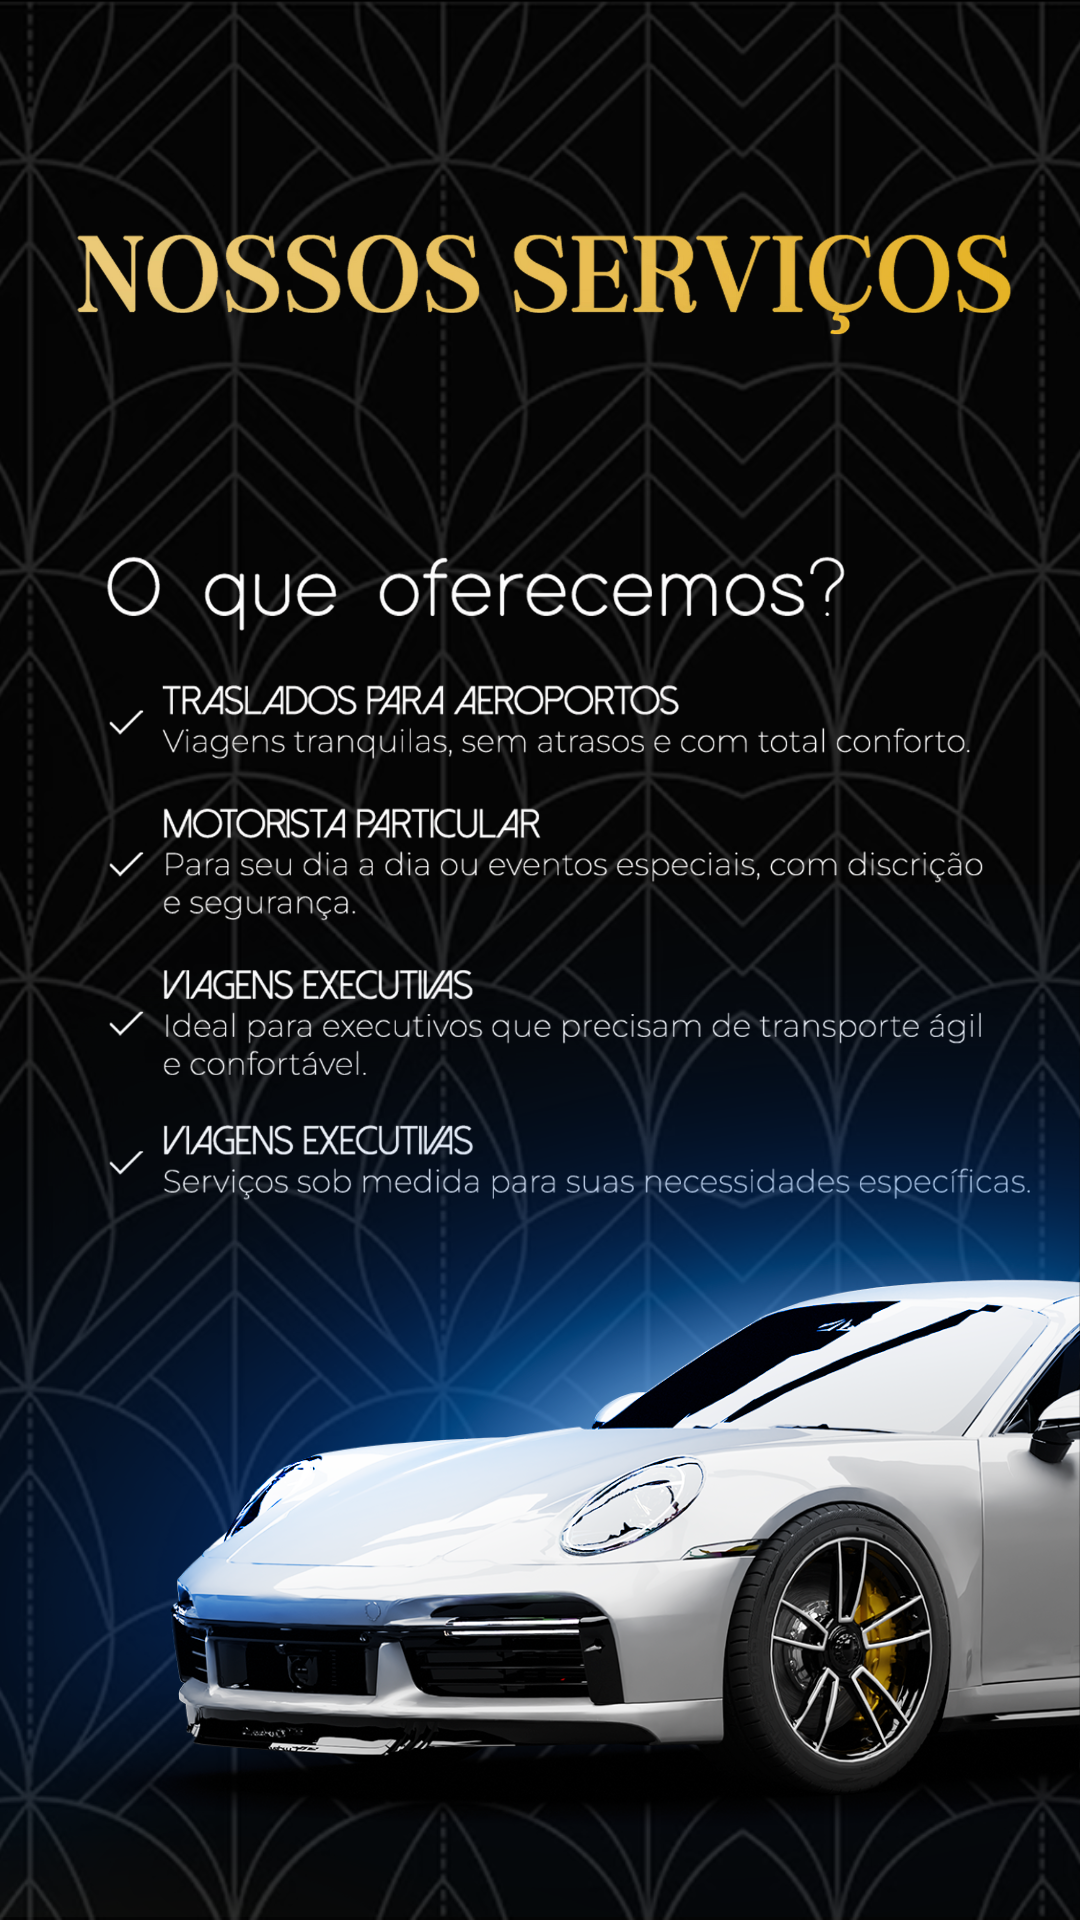
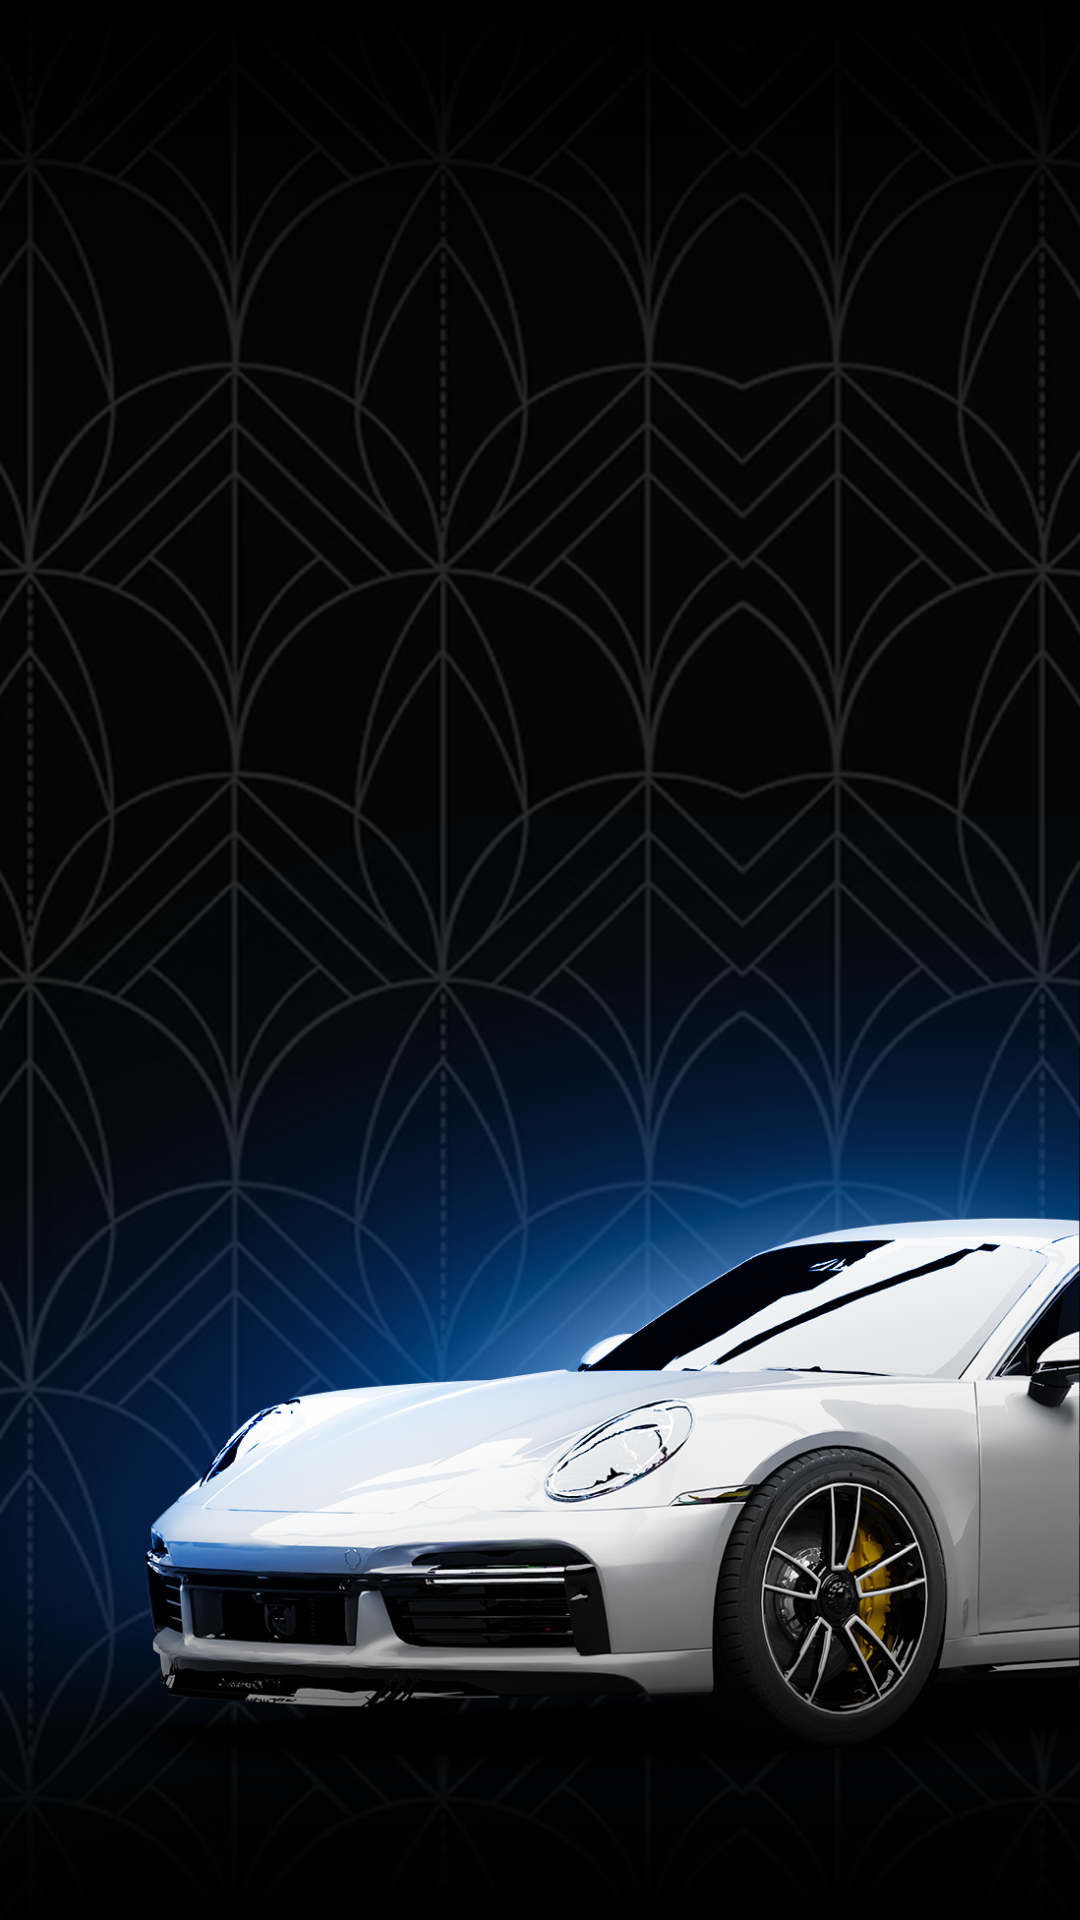
update
update

diff --git a/style.css b/style.css
@@ -3,6 +3,13 @@
     margin: 0;
     box-sizing: border-box;
 }
+a {
+    cursor: pointer;
+
+}
+button {
+    cursor: pointer;
+}
 #Section01 {
     height: 100vh;
     width: 100%;
@@ -94,7 +101,7 @@
     width: 100%;
     height: 100vh;height: 100vh;
     width: 100%;
-    background-image: url(./BG/bg_02.webp);
+    background-image: url(./BG/bg_02.png);
     background-position: center center;
     background-repeat: no-repeat;
     background-size: cover;
@@ -132,7 +139,7 @@
         width: 100%;
         height: 100vh;height: 100vh;
         width: 100%;
-        background-image: url(./BG/06.webp);
+        background-image: url(./BG/06.png);
         background-position: center center;
         background-repeat: no-repeat;
         background-size: cover;
@@ -170,10 +177,22 @@
 #Section3 {
     width: 100%;
     height: 100vh;
-    background-image: url(./BG/03.png);
+    background-image: url(./BG/bg_03.png);
     background-position: center center;
     background-repeat: no-repeat;
     background-size: cover;
+}
+#Servicos {
+    width: 50%;
+    margin-left: 10%;
+    padding-top: 40px;
+}
+#Servicos #logoServico{
+    width: 80%;
+    margin-bottom: 50px;
+}
+#Servicos #txtservicos {
+    width: 80%;
 }
 @media (max-width: 800px){
     #Section3{
@@ -184,16 +203,49 @@
         background-repeat: no-repeat;
         background-size: cover;
     }
+    #Servicos {
+        text-align: center;
+        width: 90%;
+        margin-left: 5%;
+        padding-top: 150px;
+    }
+    #Servicos #logoServico{
+        width: 80%;
+        margin-bottom: 50px;
+    }
+    #Servicos #txtservicos {
+        width: 80%;
+    }
 }
 
 #Section4 {
     width: 100%;
     height: 100vh;
-    background-image: url(./BG/LP_APRESENTAÇÂOdep4.png);
+    background-image: url(./BG/04.png);
     background-position: center center;
     background-repeat: no-repeat;
     background-size: cover;
 }
+#Section4 #dep{
+    padding-top: 50px;
+    width: 100%;
+    display: flex;
+    flex-direction: row;
+}
+#Section4 #dep #logDep {
+    padding-top: 20px;
+    margin-left: 5%;
+    width: 40%;
+    height: 40%;
+}
+#Section4 #dep #divDep{
+    text-align: center;
+}
+#Section4 #dep #divDep #depde {
+    padding-top: 50px;
+    width: 40%;
+}
+
 @media (max-width: 800px){
     #Section4{
         width: 100%;
@@ -203,21 +255,85 @@
         background-repeat: no-repeat;
         background-size: cover;
     }
+    #Section4 #dep{
+        padding-top: 80px;
+        width: 80%;
+        margin-left: 10%;
+        display: flex;
+        flex-direction: column;
+    }
+    #Section4 #dep #logDep {
+        padding-top: 20px;
+        margin-left: 5%;
+        width: 80%;
+    }
+    #Section4 #dep #divDep{
+        text-align: center;
+    }
+    #Section4 #dep #divDep #depde {
+        padding-top: 10px;
+        width: 80%;
+    }    
 }
+
 #Section5 {
     width: 100%;
     height: 100vh;
-    background-image: url(./BG/LP_05.png);
+    background-image: url(./BG/bg_05\ -\ Copia.png);
     background-position: center center;
     background-repeat: no-repeat;
     background-size: cover;
+}
+#Escrita05 {
+    padding-top:40px;
+    width: 50%;
+    margin-left: 10%;
+}
+#Escrita05 #texto05 {
+    width: 80%;
+    margin-left: 10%;
 }
 @media (max-width: 800px){
     #Section5{
         width: 100%;
         height: 100vh;
-        background-image: url(./BG/finalmob.png);
+        background-image: url(./BG/7.png);
         background-position: center center;
         background-repeat: no-repeat;
     }
+    #Escrita05 {
+        padding-top: 250px;
+        width: 90%;
+        margin-left: 5%;
+    }
+    #Escrita05 #texto05 {
+        width: 80%;
+        margin-left: 10%;
+    }
+    
+}
+footer {
+    width: 100%;
+    height: auto;
+    background-image: url(./BG/footrt.png);
+    background-repeat: no-repeat;
+    background-position: center center;
+    background-size: cover;
+}
+#Footer {
+    color: white;
+    padding-top: 50px;
+    text-align: center;
+    width: 80%;
+    margin-left: 10%;
+}
+#redes {
+    display: flex;
+    flex-direction: row;
+    justify-content: space-around;
+}
+#redes img {
+    margin-top: 30px;
+    width: 40px;
+    margin-bottom: 30px;
 }

diff --git a/index.html b/index.html
@@ -21,7 +21,7 @@
                 <img src="./BG//chck.webp" alt="check"/> <p class="pCheck">Atendimento personalizado</p>
             </div>
             
-            <button id="BTN">SOLICITAR ORÇAMENTO</button>
+            <a href="https://wa.me/5511961174146" target="_blank" ><button id="BTN" >SOLICITAR ORÇAMENTO</button></a>
         </div>
     </section>
     <section id="Section02">
@@ -39,17 +39,41 @@
                 viagens ou eventos, nosso objetivo é 
                 <b>proporcionar uma experiencia premium e sem preucupações.</b> 
             </div>
-            <button id="BTNs2">SAIBA MAIS</button>
+            <a href="https://wa.me/5511961174146" target="_blank" ><button id="BTNs2">SAIBA MAIS</button></a>
         </div>
     </section>
     <section id="Section3">
+        <div id="Servicos">
+            <img id="logoServico" src="./BG/servicos.png" alt="serviços"/>
+            <img id="txtservicos" src="./BG/txtservicos.png" alt="txt"/>
+        </div>
 
     </section>
     <section id="Section4">
+        <div id="dep">
+            <img id="logDep" src="./BG/dep.png" alt="logo" />
+            <div id="divDep">
+                
+                <img id="depde" src="./BG/ddep.png" alt="dep" />
+            </div>
+        </div>
         
     </section>
     <section id="Section5">
+        <div id="Escrita05">
+            <img id="texto05" src="./BG/Final.png" alt="texto05"/>
+        </div>
         
     </section>
+    <footer>
+        <div id="Footer">
+            <p id="pfotter">&copy 2025 JHONNY TEIXEIRA TRANSPORE EXECUTIVO - TODOS OS DIREITOS RESERVADOS.</p>
+            <div id="redes">
+                <a href="https://wa.me/5511961174146" target="_blank" ><img src="./BG/insta.png" alt="rede"/></a>
+                <a href="https://wa.me/5511961174146" target="_blank" ><img src="./BG/Facebook.png" alt="rede"/></a>
+                <a href="https://wa.me/5511961174146" target="_blank" ><img src="./BG/WhatsApp.png" alt="rede"/></a>
+            </div>
+        </div>
+    </footer>
 </body>
 </html>
